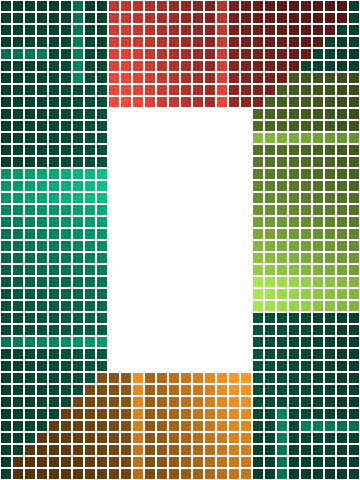
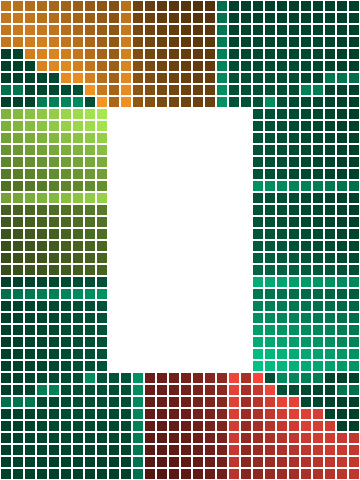
Apply remaining changes

diff --git a/scripts/assets/aura_electro_frames.py b/scripts/assets/aura_electro_frames.py
@@ -49,20 +49,38 @@ def perimeter_coords():
     e r (0 = borda interna, 1 = borda externa)."""
     cells = []
     x0, y0, x1, y1 = INSET, INSET, W - INSET, H - INSET
-    inner = (x0 + RING, y0 + RING, x1 - RING, y1 - RING)
-    per = 2 * ((x1 - x0) + (y1 - y0))
-    top = x1 - x0; right = y1 - y0
+    R = RING
+    inner = (x0 + R, y0 + R, x1 - R, y1 - R)
+    lt, lv = inner[2] - inner[0], inner[3] - inner[1]      # trechos retos (topo/base e lados)
+    la = (np.pi / 2) * (R / 2)                             # arco da linha central em cada canto
+    per = 2 * (lt + lv) + 4 * la
+    cx0 = (x0 + x1) / 2
+    # Nos cantos o feixe gira em torno do vértice interno do anel: as frentes do feixe são raios a partir dele,
+    # então a largura (borda externa - borda interna) fica preenchida de ponta a ponta durante toda a curva.
     for cy in range(y0, y1, CELL):
         for cx in range(x0, x1, CELL):
             mx, my = cx + CELL / 2, cy + CELL / 2
             if inner[0] <= mx <= inner[2] and inner[1] <= my <= inner[3]:
                 continue
             dl, dt, dr, db = mx - x0, my - y0, x1 - mx, y1 - my
-            side = int(np.argmin([dt, dr, db, dl]))
-            if side == 0: s = (mx - (x0 + x1) / 2) % per
-            elif side == 1: s = top / 2 + (my - y0)
-            elif side == 2: s = top / 2 + right + (x1 - mx)
-            else: s = top / 2 + right + top + (y1 - my)
+            left, right = mx < inner[0], mx > inner[2]
+            up, down = my < inner[1], my > inner[3]
+            if up and right:
+                s = lt / 2 + (2 / np.pi) * la * np.arctan2(mx - inner[2], inner[1] - my)
+            elif down and right:
+                s = lt / 2 + la + lv + (2 / np.pi) * la * np.arctan2(my - inner[3], mx - inner[2])
+            elif down and left:
+                s = lt / 2 + 2 * la + lv + lt + (2 / np.pi) * la * np.arctan2(inner[0] - mx, my - inner[3])
+            elif up and left:
+                s = lt / 2 + 3 * la + lv + lt + lv + (2 / np.pi) * la * np.arctan2(inner[1] - my, inner[0] - mx)
+            elif up:
+                s = (mx - cx0) % per
+            elif right:
+                s = lt / 2 + la + (my - inner[1])
+            elif down:
+                s = lt / 2 + 2 * la + lv + (inner[2] - mx)
+            else:
+                s = lt / 2 + 3 * la + lv + lt + (inner[3] - my)
             r = 1 - min(dl, dt, dr, db) / RING
             cells.append((cx, cy, (s % per) / per, float(np.clip(r, 0, 1))))
     return cells
